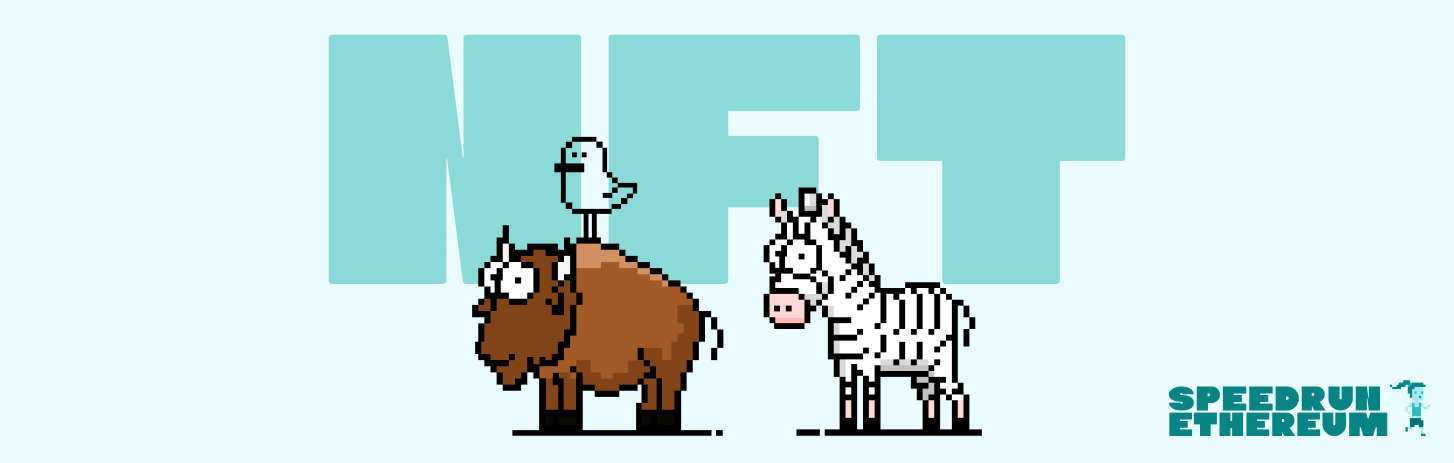
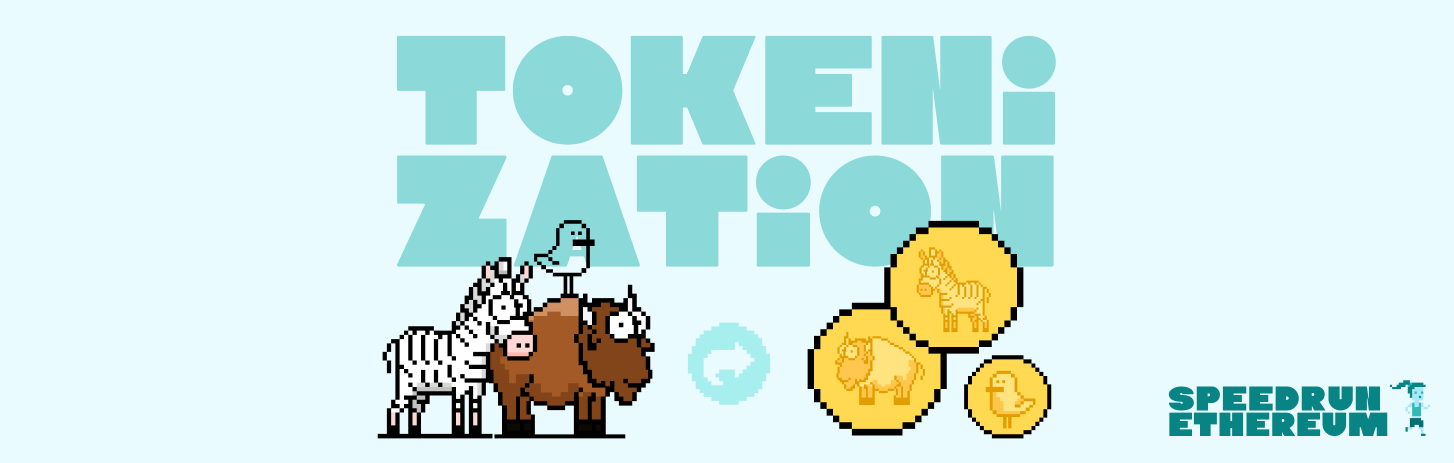
Challenge tokenization (#361)

Changed region(s): [[0.2166, 0.0605, 0.7737, 0.9676]]

diff --git a/extension/packages/nextjs/app/myNFTs/page.tsx b/extension/packages/nextjs/app/myNFTs/page.tsx
@@ -6,8 +6,8 @@ import { useAccount } from "wagmi";
 import { RainbowKitCustomConnectButton } from "~~/components/scaffold-eth";
 import { useScaffoldReadContract, useScaffoldWriteContract } from "~~/hooks/scaffold-eth";
 import { notification } from "~~/utils/scaffold-eth";
-import { addToIPFS } from "~~/utils/simpleNFT/ipfs-fetch";
-import nftsMetadata from "~~/utils/simpleNFT/nftsMetadata";
+import { addToIPFS } from "~~/utils/tokenization/ipfs-fetch";
+import nftsMetadata from "~~/utils/tokenization/nftsMetadata";
 
 const MyNFTs: NextPage = () => {
   const { address: connectedAddress, isConnected, isConnecting } = useAccount();

diff --git a/extension/packages/nextjs/app/myNFTs/_components/MyHoldings.tsx b/extension/packages/nextjs/app/myNFTs/_components/MyHoldings.tsx
@@ -5,8 +5,8 @@ import { NFTCard } from "./NFTCard";
 import { useAccount } from "wagmi";
 import { useScaffoldContract, useScaffoldReadContract } from "~~/hooks/scaffold-eth";
 import { notification } from "~~/utils/scaffold-eth";
-import { getMetadataFromIPFS } from "~~/utils/simpleNFT/ipfs-fetch";
-import { NFTMetaData } from "~~/utils/simpleNFT/nftsMetadata";
+import { getMetadataFromIPFS } from "~~/utils/tokenization/ipfs-fetch";
+import { NFTMetaData } from "~~/utils/tokenization/nftsMetadata";
 
 export interface Collectible extends Partial<NFTMetaData> {
   id: number;

diff --git a/extension/packages/nextjs/app/ipfsUpload/page.tsx b/extension/packages/nextjs/app/ipfsUpload/page.tsx
@@ -3,8 +3,8 @@
 import { lazy, useEffect, useState } from "react";
 import type { NextPage } from "next";
 import { notification } from "~~/utils/scaffold-eth";
-import { addToIPFS } from "~~/utils/simpleNFT/ipfs-fetch";
-import nftsMetadata from "~~/utils/simpleNFT/nftsMetadata";
+import { addToIPFS } from "~~/utils/tokenization/ipfs-fetch";
+import nftsMetadata from "~~/utils/tokenization/nftsMetadata";
 
 const LazyReactJson = lazy(() => import("react-json-view"));
 

diff --git a/extension/packages/nextjs/app/ipfsDownload/page.tsx b/extension/packages/nextjs/app/ipfsDownload/page.tsx
@@ -3,7 +3,7 @@
 import { lazy, useEffect, useState } from "react";
 import type { NextPage } from "next";
 import { notification } from "~~/utils/scaffold-eth";
-import { getMetadataFromIPFS } from "~~/utils/simpleNFT/ipfs-fetch";
+import { getMetadataFromIPFS } from "~~/utils/tokenization/ipfs-fetch";
 
 const LazyReactJson = lazy(() => import("react-json-view"));
 

diff --git a/extension/packages/hardhat/test/YourCollectible.ts b/extension/packages/hardhat/test/YourCollectible.ts
@@ -6,7 +6,7 @@ import { ethers } from "hardhat";
 import { expect } from "chai";
 import { YourCollectible } from "../typechain-types";
 
-describe("🚩 Challenge: 🎟 Simple NFT Example 🤓", function () {
+describe("🚩 Challenge: 🎟 Tokenization 🤓", function () {
   let myContract: YourCollectible;
 
   describe("YourCollectible", function () {

diff --git a/extension/packages/nextjs/app/api/ipfs/get-metadata/route.ts b/extension/packages/nextjs/app/api/ipfs/get-metadata/route.ts
@@ -1,4 +1,4 @@
-import { getNFTMetadataFromIPFS } from "~~/utils/simpleNFT/ipfs";
+import { getNFTMetadataFromIPFS } from "~~/utils/tokenization/ipfs";
 
 export async function POST(request: Request) {
   try {

diff --git a/extension/packages/nextjs/app/api/ipfs/add/route.ts b/extension/packages/nextjs/app/api/ipfs/add/route.ts
@@ -1,6 +1,6 @@
 "use server";
 
-import { ipfsClient } from "~~/utils/simpleNFT/ipfs";
+import { ipfsClient } from "~~/utils/tokenization/ipfs";
 
 export async function POST(request: Request) {
   try {

diff --git a/README.md b/README.md
@@ -1,6 +1,6 @@
-# 🚩 Challenge: 🎟 Simple NFT Example
+# 🚩 Challenge: 🎟 Tokenization
 
-![readme](https://raw.githubusercontent.com/scaffold-eth/se-2-challenges/challenge-simple-nft-example/extension/packages/nextjs/public/hero.png)
+![readme](https://raw.githubusercontent.com/scaffold-eth/se-2-challenges/challenge-tokenization/extension/packages/nextjs/public/hero.png)
 
 📚 This tutorial is meant for developers that already understand the [ 🖍 basics ](https://www.youtube.com/watch?v=MlJPjJQZtC8).
 
@@ -8,15 +8,41 @@
 
 ---
 
-🎫 Create a simple NFT:
+🎫 Tokenize unique items:
 
-👷♀ You'll compile and deploy your first smart contracts. Then, you'll use a template NextJS app full of important Ethereum components and hooks. Finally, you'll deploy an NFT to a public network to share with friends! 🚀
+👷♀ You'll compile and deploy your first smart contracts. Then, you'll use a template NextJS app full of important Ethereum components and hooks. Finally, you'll deploy a non-fungible token to a public network where you can send it to anyone! 🚀
 
-🌟 The final deliverable is an app that lets users purchase and transfer NFTs. Deploy your contracts to a testnet, then build and upload your app to a public web server. Submit the url on [SpeedRunEthereum.com](https://speedrunethereum.com)!
+🌟 The final deliverable is an app that lets users mint and transfer NFTs and understand onchain ownership. Deploy your contracts to a testnet, then build and upload your app to a public web server. Submit the url on [SpeedRunEthereum.com](https://speedrunethereum.com)!
 
 💬 Meet other builders working on this challenge and get help in the [Challenge Telegram](https://t.me/+Y2vqXZZ_pEFhMGMx)!
 
-🤖 If you have any question during your Challenge, you can try out the [Challenge AI assistant](https://scaffold-eth-assistant.streamlit.app/), and get answers to your Challenge/Scaffold-ETH questions. Please reach us in Telegram if something feels wrong!
+<details markdown='1'><summary>❓ Wondering what "tokenization" means?</summary>
+Tokenization is like giving anything a digital passport you can carry in your wallet. It proves who owns it, lets you hand it off in a click, and lets apps recognize it automatically. In this challenge you'll mint ERC-721 tokens (NFTs): each token is one-of-one, owned by a single address (what `ownerOf(tokenId)` returns). Transfers are atomic, instant, traceable, and run by code.
+
+- **Real-World Assets (RWAs)**: Think stocks, bonds, gold, and real estate. If these are tokenized, the token acts as a digital claim or registry entry. For real-world effect, an issuer/custodian or legal framework must link onchain transfers to off-chain rights; without that bridge, it's a collectible, not a legal transfer.
+
+- Who has the right to tokenize?: The legitimate owner or authorized issuer. If you don't control the thing, your token is unofficial fan art, not enforceable rights.
+
+- **Blockchain-native assets**: Some things are born onchain; art, game items, ENS names, fully-onchain media, and even concert tickets designed for onchain verification. Here, the token is the thing. That makes them globally transferable, permissionless, and composable. Plug them into marketplaces, auctions, lending, or games. As the world moves onchain we'll see more native experiences like tickets that verify at the door, auto-split royalties on resales, and unlock perks across apps.
+</details>
+
+---
+
+🚫 **"Wait, aren't NFTs just monkey JPEGS?"** That couldn't be further from the truth! While some NFTs are nothing more than metadata pointing to an image, the important part is to realize how assets on Ethereum unlock composability. 
+
+🌐 Look at how ENS is improving upon the Domain Name System (DNS aka website addresses). These are just NFTs but they carry a lot of usefulness. The same usefulness that is unlocked by not having to remember to type 64.233.180.138 to get to Google.com is unlocked by these ENS names but the usefulness goes further than that. You can use these ENS names to alias wallet addresses as well. Check out the ENS record for [vitalik.eth](https://app.ens.domains/vitalik.eth) to see how there are many records - some for addresses, some for content. Try going to [vitalik.eth.limo](https://vitalik.eth.limo) and see how the contentHash record resolves to his personal webpage. 
+
+🦄 Or checkout how Uniswap V3 is [using NFTs](https://uniswapv3book.com/milestone_6/nft-manager.html) to track each liquidity providers portion in the pool. Don't worry if you don't understand all those words yet, just realize that this is a big deal to represent ownership of assets this way. 
+
+♻ Even if the NFT itself is completely inert and reflects complete speculation on a "worthless" image, you can still use that NFT in other smart contracts to build interesting projects like what they have done at [PunkStrategy](https://www.punkstrategy.fun/) where you can buy tokens in a protocol that gives you fractional exposure to CryptoPunk NFTs while also having part in a strategy that automatically uses profit from token sales to buy the lowest valued Punk on the market, then relists it at a 20% premium - over and over again, forever! 
+
+🔓 Composability unlocks all of this and so much more!
+
+🚀 Are you ready? You're about to mint something the entire internet can see, trade, and build on.
+
+<details><summary>But wait! Wait does "NFT" stand for?</summary>
+NFT stands for Non-Fungible Token. Non-fungible means that each token is unique. Fungible tokens (often represented as ERC-20s) are all the same. Each one looks and acts the same and has the same abilities. With NFTs there is something unique about each token. That is why they do well to express unique names, images (monkey JPEGS), DEX liquidity positions, and maybe some day real estate parcels.
+</details>
 
 ## Checkpoint 0: 📦 Environment 📚
 
@@ -29,8 +55,8 @@ Before you begin, you need to install the following tools:
 Then download the challenge to your computer and install dependencies by running:
 
 ```sh
-npx create-eth@1.0.2 -e challenge-simple-nft-example challenge-simple-nft-example
-cd challenge-simple-nft-example
+npx create-eth@1.0.2 -e challenge-tokenization challenge-tokenization
+cd challenge-tokenization
 ```
 
 > in the same terminal, start your local network (a blockchain emulator in your computer):
@@ -42,14 +68,14 @@ yarn chain
 > in a second terminal window, 🛰 deploy your contract (locally):
 
 ```sh
-cd challenge-simple-nft-example
+cd challenge-tokenization
 yarn deploy
 ```
 
 > in a third terminal window, start your 📱 frontend:
 
 ```sh
-cd challenge-simple-nft-example
+cd challenge-tokenization
 yarn start
 ```
 
@@ -59,7 +85,7 @@ yarn start
 
 ## Checkpoint 1: ⛽ Gas & Wallets 👛
 
-> ⛽ You'll need to get some funds from the faucet for gas.
+> ⛽ Gas is the tiny fee that powers your transactions, like postage for the blockchain. Grab test funds from the faucet so you can interact onchain.
 
 ![gas&wallet](https://github.com/scaffold-eth/se-2-challenges/assets/80153681/912d0d4b-db34-49d3-bd7d-7ca0ab18eb66)
 
@@ -70,19 +96,21 @@ yarn start
   <img src="https://github.com/scaffold-eth/se-2-challenges/assets/80153681/1bcf9752-e8ae-4db6-a0a6-5dc774abe46c" width="33%" />
 </p>
 
-> 🔥 We'll use burner wallets on localhost.
+> 🔥 We'll use burner wallets on localhost. They're disposable wallets that auto-sign transactions so you can keep building.
 
-> 👛 Explore how burner wallets work in 🏗 Scaffold-ETH 2 by opening a new incognito window and navigate to http://localhost:3000. You'll notice it has a new wallet address in the top right. Copy the incognito browser's address and send localhost test funds to it from your first browser (using the **Faucet** button in the bottom left):
+> 👛 Explore burner wallets in 🏗 Scaffold-ETH 2: open an incognito window and visit http://localhost:3000. You'll see a totally new address in the top-right. Copy it and send test funds from your first window using the **Faucet** button (bottom-left):
 
-![icognito&webBrowser](https://github.com/scaffold-eth/se-2-challenges/assets/80153681/fd191447-a31f-4c03-a36f-936bfb70c2a1)
+![icognito&webBrowser](https://github.com/user-attachments/assets/bf1cbb3e-b014-44b1-9b19-83d831abcb19)
 
-> 👨🏻🚒 When you close the incognito window, the account is gone forever. Burner wallets are great for local development but you'll move to more permanent wallets when you interact with public networks.
+> 👨🏻🚒 When you close the incognito window, that account is gone forever. Burner wallets are perfect for local dev; you'll switch to a permanent wallet on public networks.
 
 ---
 
 ## Checkpoint 2: 🖨 Minting
 
-> ✏ Mint some NFTs! Click the **MINT NFT** button in the `My NFTs` tab.
+🦓 In this challenge we will be minting (or creating) collectible Buffalo, Zebra and Rhino NFTs. Their metadata is stored on [IPFS](https://ipfs.tech/). These won't feign any real value but what price can you put on your own understanding of intricate blockchain ownership designs? Face it, it's **priceless!**
+
+> ✏ Time to create something new. Click **MINT NFT** in the `My NFTs` tab to mint an ERC-721 token; your unique, onchain collectible.
 
 ![image](https://github.com/scaffold-eth/se-2-challenges/assets/80153681/74cf02f2-4c1b-4278-9841-f19f668e0b1e)
 
@@ -90,21 +118,29 @@ yarn start
 
 ![image](https://github.com/scaffold-eth/se-2-challenges/assets/80153681/63dabceb-ad42-4c09-8e5d-a0139939e32d)
 
-👛 Open an incognito window and navigate to http://localhost:3000
+👛 Open an incognito window and navigate to http://localhost:3000.
 
-🎟 Transfer an NFT to the incognito window address using the UI:
+🎟 Try a transfer! Send a token to the incognito window address using the UI:
 
 ![image](https://github.com/scaffold-eth/se-2-challenges/assets/80153681/3b92fb50-d43f-48a8-838c-c45c443b0b71)
 
-👛 Try to mint an NFT from the incognito window.
+👛 Try to mint a token from the incognito window.
 
-> Can you mint an NFT with no funds in this address? You might need to grab funds from the faucet to pay for the gas!
+> Can you mint a token with no funds in this address? You might need to grab funds from the faucet to pay for the gas!
 
-🕵🏻♂ Inspect the `Debug Contracts` tab to figure out what address is the owner of YourCollectible?
+🕵🏻♂ Inspect the `Debug Contracts` tab to figure out what address is the owner of a specific token (`ownerOf(tokenId)`) in `YourCollectible`.
 
 🔏 You can also check out your smart contract `YourCollectible.sol` in `packages/hardhat/contracts`.
 
-💼 Take a quick look at your deploy script `00_deploy_your_contract.js` in `packages/hardhat/deploy`.
+💼 Take a quick look at your deploy script `01_deploy_your_collectible.ts` in `packages/hardhat/deploy`.
+
+### Onchain Ownership 101
+
+- **What is ownership?** Onchain ownership of a unique item is whoever `ownerOf(tokenId)` returns.
+- **Who can transfer?** Only the owner or an approved operator can transfer a token.
+- **What happens on transfer?** Ownership moves atomically to the new address and a `Transfer` event is emitted.
+- **How do approvals work?** Use `approve` for a single token or `setApprovalForAll` for an operator across all your tokens.
+- **How to count holdings?** `balanceOf(address)` shows how many unique tokens an address owns.
 
 📝 If you want to edit the frontend, navigate to `packages/nextjs/app` and open the specific page you want to modify. For instance: `/myNFTs/page.tsx`. For guidance on [routing](https://nextjs.org/docs/app/building-your-application/routing/defining-routes) and configuring [pages/layouts](https://nextjs.org/docs/app/building-your-application/routing/pages-and-layouts) checkout the Next.js documentation.
 
@@ -112,23 +148,23 @@ yarn start
 
 ## Checkpoint 3: 💾 Deploy your contract! 🛰
 
-🛰 Ready to deploy to a public testnet?!?
+🛰 Ready to go public (on testnet)? Let's ship it.
 
 > Change the defaultNetwork in `packages/hardhat/hardhat.config.ts` to `sepolia`.
 
 ![chall-0-hardhat-config](https://github.com/scaffold-eth/se-2-challenges/assets/55535804/f94b47d8-aa51-46eb-9c9e-7536559a5d45)
 
-🔐 Generate a deployer address with `yarn generate`. This creates a unique deployer address and saves the mnemonic locally.
+🔐 Generate a deployer address with `yarn generate`. This creates a fresh deployer and stores the mnemonic locally. You will be prompted to enter a password, which will be used to encrypt your private key. **Make sure to remember this password, as you'll need it for future deployments and account queries.**
 
-> This local account will deploy your contracts, allowing you to avoid entering a personal private key.
+> This local account deploys your contracts(no need to paste personal private keys).
 
 ![chall-0-yarn-generate](https://github.com/scaffold-eth/se-2-challenges/assets/2486142/133f5701-e575-4cc2-904f-cdc83ae86d94)
 
-👩🚀 Use `yarn account` to view your deployer account balances.
+👩🚀 Use `yarn account` to check balances and addresses quickly.
 
 ![chall-0-yarn-account](https://github.com/scaffold-eth/se-2-challenges/assets/2486142/c34df8c9-9793-4a76-849b-170fae7fd0f0)
 
-⛽ You will need to send ETH to your deployer address with your wallet, or get it from a public faucet of your chosen network.
+⛽ Fund your deployer with testnet ETH from a faucet or another wallet so it can pay gas.
 
 > Some popular Sepolia faucets are the [Alchemy Faucet](https://sepoliafaucet.com/), [Infura Faucet](https://www.infura.io/faucet/sepolia), and [Google Cloud Faucet](https://cloud.google.com/application/web3/faucet/ethereum/sepolia).
 
@@ -142,11 +178,11 @@ yarn start
 
 ## Checkpoint 4: 🚢 Ship your frontend! 🚁
 
-> ✏ Edit your frontend config in `packages/nextjs/scaffold.config.ts` to change the `targetNetwork` to `chains.sepolia` :
+> ✏ Tune your frontend for the right chain. In `packages/nextjs/scaffold.config.ts`, set `targetNetwork` to `chains.sepolia`:
 
 ![chall-0-scaffold-config](https://github.com/scaffold-eth/se-2-challenges/assets/12072395/ff03bda0-66c6-4907-a9ad-bc8587da8036)
 
-> You should see the correct network in the frontend (http://localhost:3000):
+> Confirm the network badge in the UI at http://localhost:3000 shows Sepolia:
 
 ![image](https://github.com/scaffold-eth/se-2-challenges/assets/80153681/50eef1f7-e1a3-4b3b-87e2-59c19362c4ff)
 
@@ -154,9 +190,9 @@ yarn start
 
 ![image](https://github.com/scaffold-eth/se-2-challenges/assets/80153681/f582d311-9b57-4503-8143-bac60346ea33)
 
-🚀 Deploy your NextJS App
+🚀 Deploy your NextJS app
 
-```shell
+```sh
 yarn vercel
 ```
 
@@ -168,7 +204,7 @@ yarn vercel
 
 ⚠ Run the automated testing function to make sure your app passes
 
-```shell
+```sh
 yarn test
 ```
 
@@ -189,36 +225,24 @@ For production-grade applications, it's recommended to obtain your own API keys 
 
 ## Checkpoint 5: 📜 Contract Verification
 
-You can verify your smart contract on Etherscan by running (`yarn verify --network network_name`) :
+You can verify your smart contract on Etherscan by running (`yarn verify --network network_name`):
 
-```shell
+```sh
 yarn verify --network sepolia
 ```
 
-> It is okay if it says your contract is already verified. Copy the address of YourCollectable.sol and search it on sepolia Etherscan to find the correct URL you need to submit this challenge.
+Verifying your contract is important for enabling others to be able to look at your contract and verify that it isn't a scam.
+
+> If it says your contract is already verified, that's fine. It just means Etherscan recognized the contract bytecode as being the same as one that was already deployed and verified. Copy the address of `YourCollectible.sol` and search it on Sepolia Etherscan to grab the URL you'll submit for this challenge.
 
 ## Checkpoint 6: 💪 Flex!
 
-👩❤👨 Share your public url with a friend and ask them for their address to send them a collectible :)
+👩❤👨 Share your public url with a friend and ask them for their address to send them a collectible:
 
 ![gif](https://github.com/scaffold-eth/se-2-challenges/assets/80153681/547612f6-97b9-4eb3-ab6d-9b6d2c0ac769)
 
-## ⚔ Side Quests
-
-### 🐟 Open Sea
-
-> 🐃 Want to see your new NFTs on Opensea? Head to [Testnets Opensea](https://testnets.opensea.io/)
-
-> 🎫 Make sure you have minted some NFTs on your Vercel page, then connect to Opensea using that same wallet.
-
-![image](https://github.com/scaffold-eth/se-2-challenges/assets/80153681/c752b365-b801-4a02-ba2e-62e0270b3795)
-
-> You can see your collection of shiny new NFTs on a testnet!
-
-(It can take a while before they show up, but here is an example:) https://testnets.opensea.io/assets/sepolia/0x17ed03686653917efa2194a5252c5f0a4f3dc49c/2
-
 ---
 
-> 🏃 Head to your next challenge [here](https://github.com/scaffold-eth/se-2-challenges).
+> 🏃 Head to your next challenge [here](https://speedrunethereum.com/challenge/decentralized-staking).
 
 > 💬 Problems, questions, comments on the stack? Post them to the [🏗 scaffold-eth developers chat](https://t.me/joinchat/F7nCRK3kI93PoCOk)
